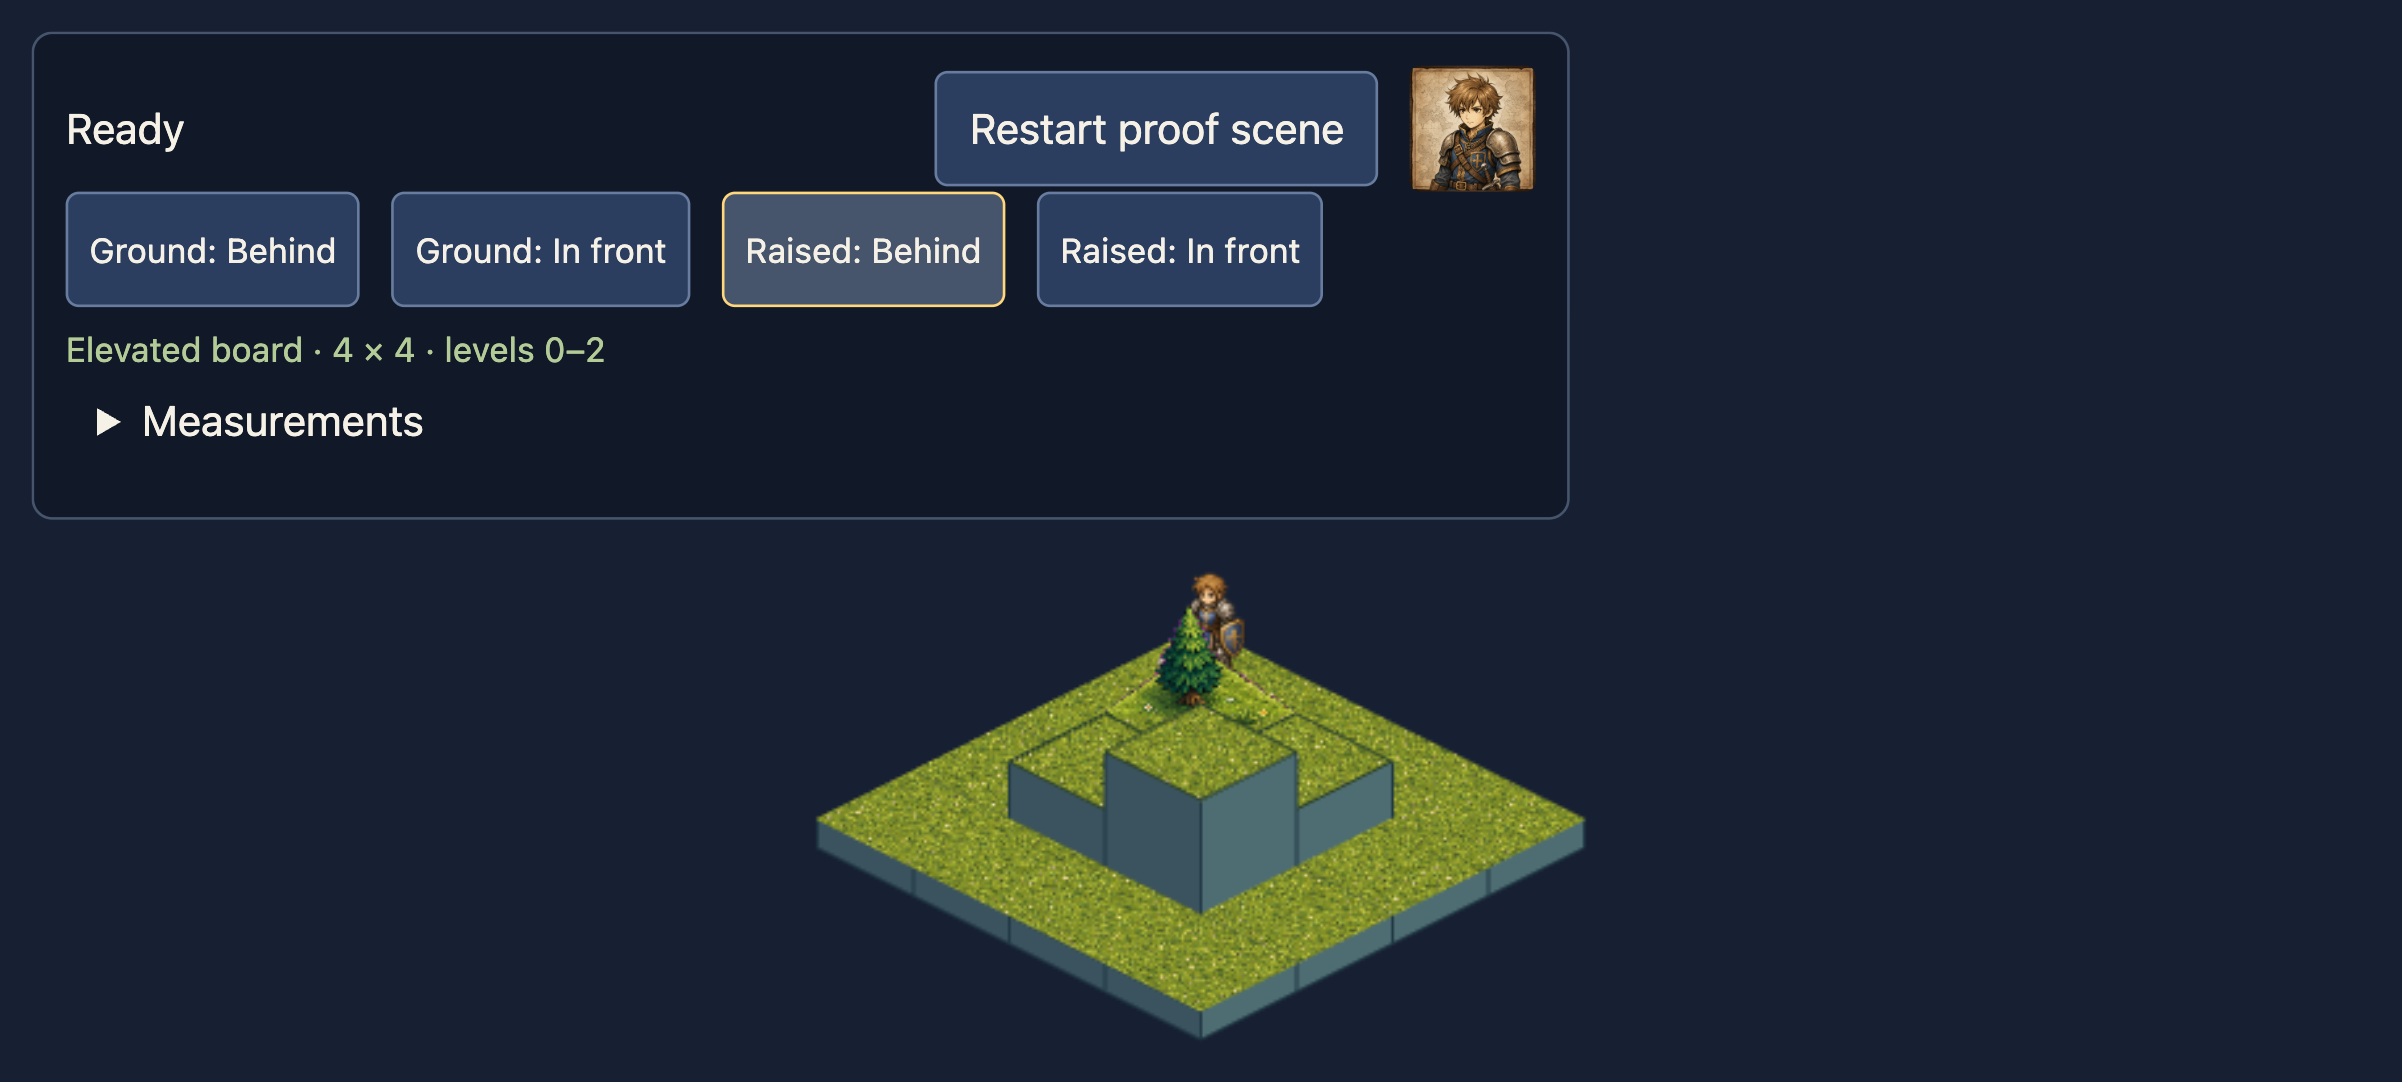
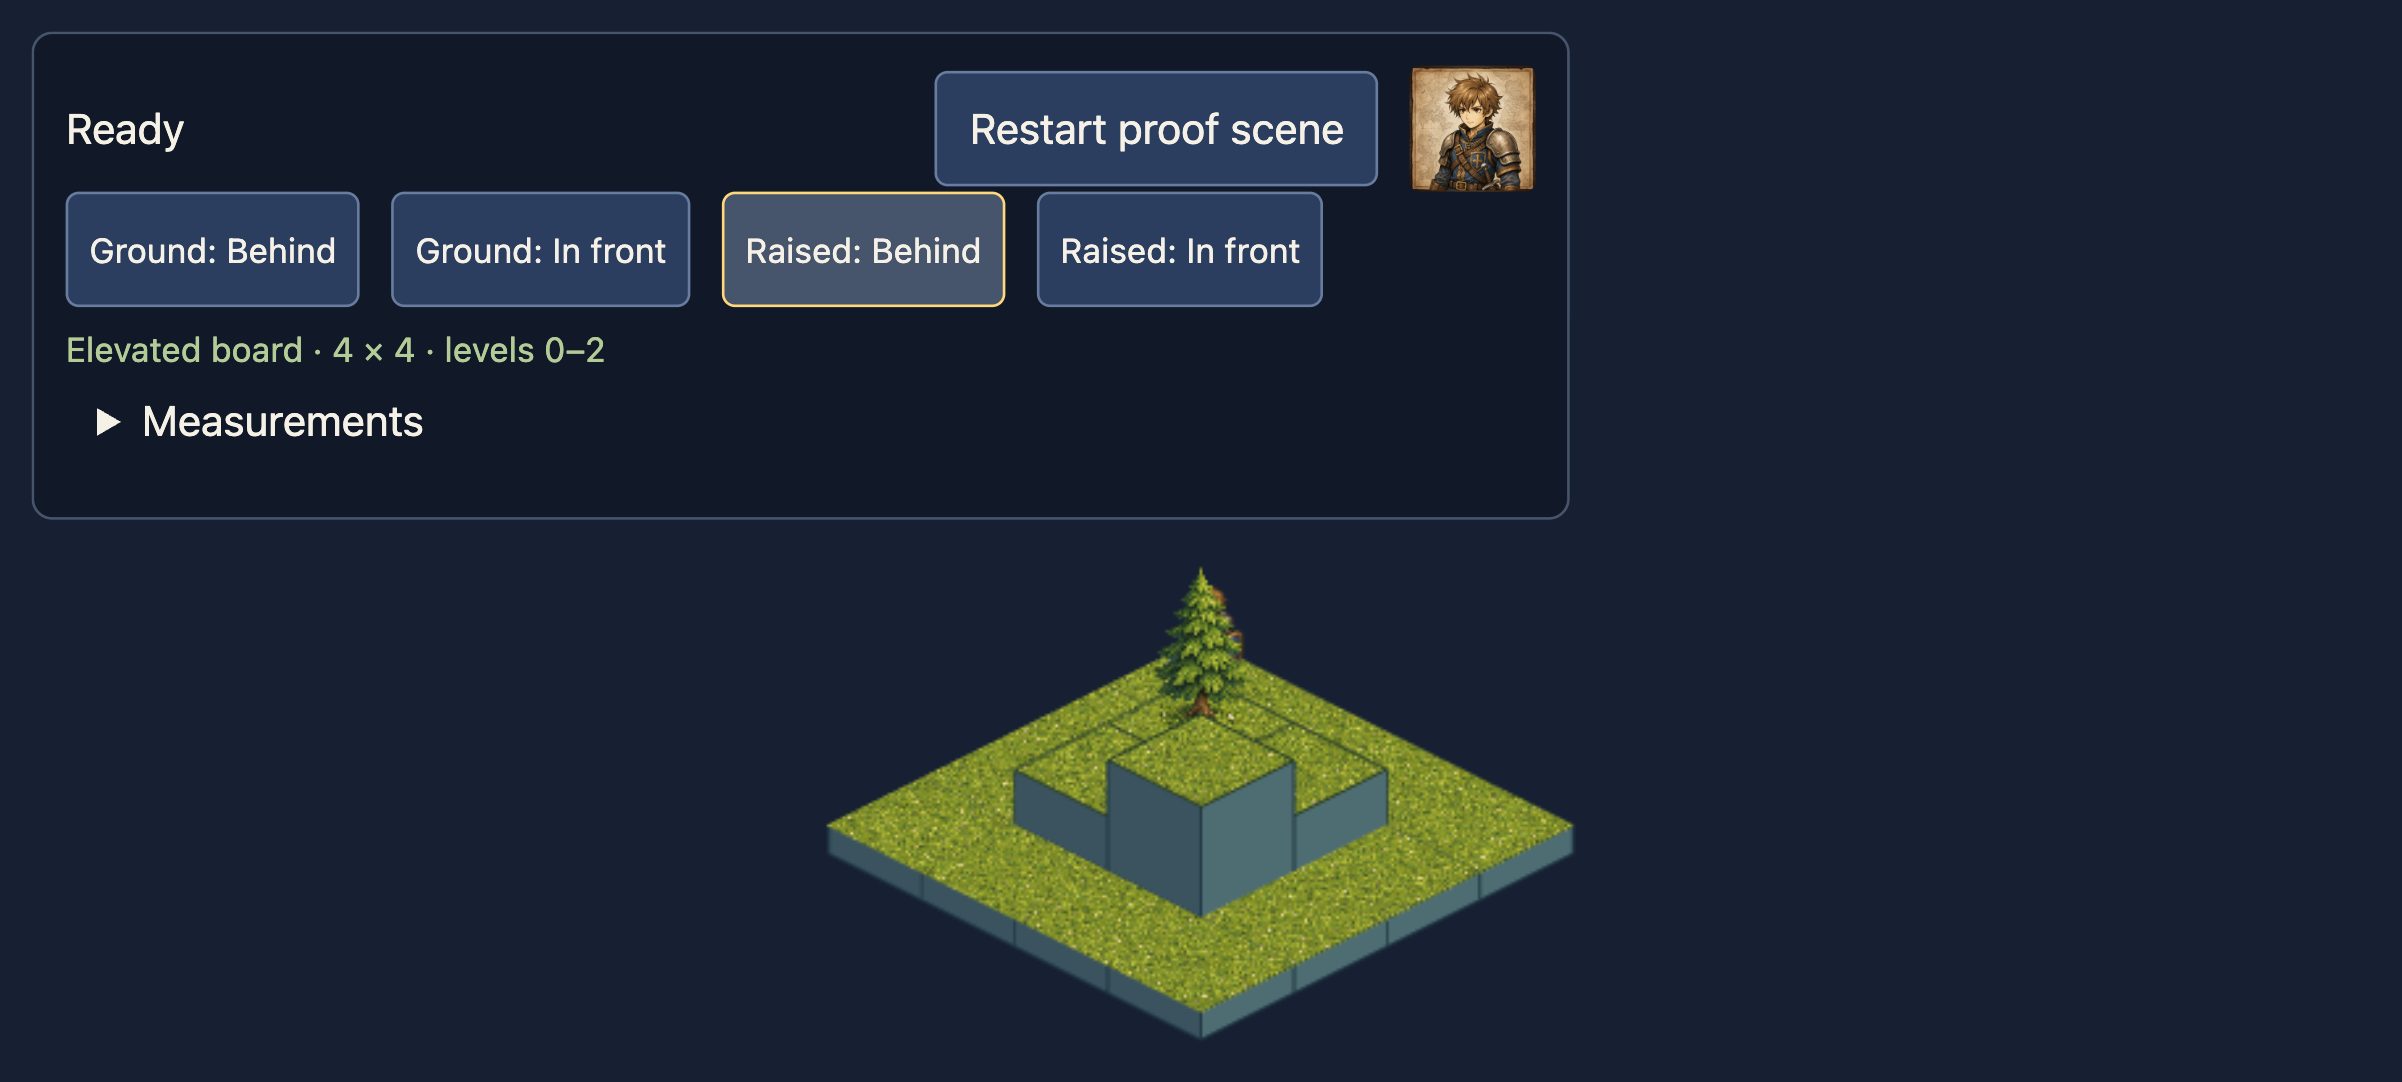
feat: replace proof tree with generated matching grass prop

Changed region(s): [[0.3435, 0.5185, 0.6557, 0.915]]

diff --git a/src/diagnostics/proofAssets.ts b/src/diagnostics/proofAssets.ts
@@ -2,14 +2,14 @@ import { BOARD_SIZE } from './boardFixture';
 // Selected diagnostic assets only; provenance and anchors: docs/qa/issue-16-assets.md.
 export const PROOF_ASSETS = [
   { key: 'grass', url: '/proof/grass-material-v1.png' },
-  { key: 'tree', url: '/proof/tree.png' },
+  { key: 'tree', url: '/proof/tree-grass-v1.png' },
   { key: 'fighter', url: '/proof/fighter.png' },
   { key: 'fighter-portrait', url: '/proof/fighter-portrait.png' },
 ] as const;
 export const PROOF_ART = {
   // Fresh square material: the renderer supplies all isometric geometry.
   grass: { horizontalBleed: 1 },
-  tree: { width: 80, height: 110, originY: 170 / 352 },
+  tree: { width: 80, height: 80 * 1276 / 1233, originY: 1070 / 1276 },
   fighter: { width: 40, height: 50, originY: 76 / 80 },
 } as const;
 export const PROOF_FIXTURES = {

diff --git a/docs/qa/issue-16-assets.md b/docs/qa/issue-16-assets.md
@@ -19,7 +19,7 @@ The source checkout was clean; each copied PNG was checked against the Git blob 
[2 lines of base64/hex data omitted]
 
-Original canonical PNG bytes: **3,388,616**. Current loaded PNG bytes, including the fresh grass material: **6,323,069**. The unchanged portrait accounts for 3,285,110 bytes; fresh grass accounts for 2,980,361. #20 measures deployed cold/warm performance and sets budgets.
+Original canonical PNG bytes: **3,388,616**. Current loaded PNG bytes, including the fresh grass material: **7,391,806**. The unchanged portrait accounts for 3,285,110 bytes; fresh grass accounts for 2,980,361 and the new tree for 1,117,492. #20 measures deployed cold/warm performance and sets budgets.
 
 ## License and provenance status
 
@@ -29,7 +29,7 @@ Fighter sprite first appears in source commit `d71a71d0376f4625d1e06d602f011e5b4
 
 ## Rendering and lifecycle
 
-The 4×4 diagnostic board retains generated side faces and uses a fresh, opaque square grass material after the user's explicit authorization to generate new assets. The texture has no baked perspective or tile silhouette. The renderer rotates a square by exactly π/4 inside a container with vertical scale TILE_HEIGHT/TILE_WIDTH (1/2). Its unexpanded projected corners are the same 80×40 diamond vertices used by side faces and tile projection. A one-pixel horizontal bleed is clipped by masks made from those vertices. Original canonical grass and the first transparent derivative remain archived and are not loaded. Tree uses its legacy base anchor and Fighter its foot anchor.
+The 4×4 diagnostic board retains generated side faces and uses a fresh, opaque square grass material after the user's explicit authorization to generate new assets. The texture has no baked perspective or tile silhouette. The renderer rotates a square by exactly π/4 inside a container with vertical scale TILE_HEIGHT/TILE_WIDTH (1/2). Its unexpanded projected corners are the same 80×40 diamond vertices used by side faces and tile projection. A one-pixel horizontal bleed is clipped by masks made from those vertices. Original canonical grass and the first transparent derivative remain archived and are not loaded. The new tree uses its root anchor, and Fighter uses its canonical foot anchor.
 
 Complete tile columns, surface art and occupants share stable grid-depth slots with the existing sum/y/x ordering. Elevation changes projected position, not depth priority. The fixed fixture buttons show one Fighter and one tree at a time. Ground fixtures use a tree at (2,0), elevation 0; raised fixtures use (1,1), elevation 1. The raised front Fighter stands on the existing elevation-2 tile at (2,2). Ground fixtures have ±28 logical-pixel foot offsets inside their tiles to make canopy overlap visible. They are diagnostic positions, not tactical moves.
 
@@ -84,8 +84,20 @@ The user subsequently authorized fresh generated assets to resolve the perceived
 - Diagnostics expose maximum transformed-corner error. The browser check allows <0.001 CSS pixel for Phaser float32 matrix rounding; focused measurements observed about 0.000018 pixel, far below visible drift. All 64 corners are compared after resize.
 - RED-first corner check failed against the prior renderer's missing projection evidence. Existing geometry tests already verify adjacent equal-height tiles share identical vertices.
 
-The fresh texture and current fixture screenshots are a starting point for further visual iteration. The legacy tree/Fighter/portrait remain canonical; newly generated grass is explicitly user-authorized and does not claim to satisfy unchanged canonical-grass artwork requirements.
+The fresh texture and current fixture screenshots are a starting point for further visual iteration. The original tree asset remains archived; Fighter/portrait remain canonical; newly generated grass is explicitly user-authorized and does not claim to satisfy unchanged canonical-grass artwork requirements.
 
 ## Elevated tile edge separation
 
 Elevated tiles have a one-logical-pixel dark green outline along their exact top-face polygon. Borders draw above the grass and below occupants within each tile's depth slot, separating raised surfaces from lower grass behind/below them without changing projection or assets. Ground-level tops remain borderless. The four outline objects are scene-owned and reset with the rest of the proof.
+
+## Generated tree and grass replacement (current)
+
+The previously loaded tree was `art/tiles/tree_single_detailed_N.png` copied unchanged to `public/proof/tree.png`. At the user's request it is now replaced with `public/proof/tree-grass-v1.png`. Built-in ImageGen used the fresh `grass-material-v1.png` as a palette/material reference and the legacy tree only as a pine silhouette reference. The generated tree has a matching soft grass patch around its roots and a transparent background, without a hard tile/slab boundary. The existing projected grass remains underneath, so no grid geometry changes are needed.
+
+- Dimensions: 1233×1276, RGBA; alpha bounds: (49,21) to (1205,1230).
[1 lines of base64/hex data omitted]
+- Display: 80×(80×1276/1233), about 80×82.79 logical pixels, preserving source aspect ratio.
+- Root anchor: horizontal center, source y=1070; originY=1070/1276.
+- Exact prompt and method: [tree-grass-v1-prompt.md](issue-16/tree-grass-v1-prompt.md).
+- Original tree PNG is preserved but unloaded. This replacement is generated project art, explicitly user-authorized, and is not claimed to be unchanged canonical art.
+- Current screenshots verify front/behind occlusion at ground and raised elevations, framing, borders, and restart using the replacement.

diff --git a/docs/qa/issue-16/tree-grass-v1-prompt.md b/docs/qa/issue-16/tree-grass-v1-prompt.md
@@ -1,0 +1,7 @@
+# Generated tree with matching grass
+
+Tool: built-in `image_gen`, transparent_background=true. Image 1: `public/proof/grass-material-v1.png`, grass/style reference. Image 2: `public/proof/tree.png`, pine silhouette reference only. This is a new generated replacement requested by the user, not a pixel-preserving edit of the canonical tree.
+
+Final prompt:
+
+> Use case: stylized-concept. Asset type: new transparent upright tree prop for an isometric tactical game. Image 1 is the newly generated top-down grass material: use it as the grass/palette/style reference. Image 2 is the old tree tile: use only its single evergreen pine silhouette as a subject reference, not its ground tile or base. Generate a new readable single evergreen pine tree, upright and viewed from the same elevated orthographic isometric game camera, front three-quarter view, warm olive-green foliage and a visible brown trunk. Match the fine hand-painted game style of image 1. Add a small soft-edged patch of grass around the tree roots matching image 1's short grass, tiny flowers and pebbles. The grass patch is only around the trunk; blend to real transparency without any straight tile boundary. The existing game supplies the full grass tile underneath. No diamond slab, no rectangular tile, no dirt walls, no underside, no black bands, no border, no floating platform, no angle baked into a ground-tile silhouette. Keep the whole tree and root grass visible with modest transparent padding, centered composition, unobstructed canopy silhouette. Genuinely transparent RGBA background. One tree only. No text, no labels, no extra objects, no checkerboard painted into the image.
